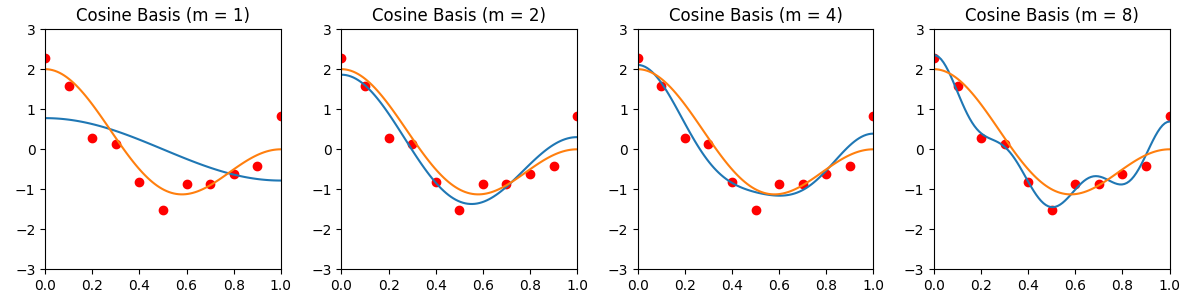
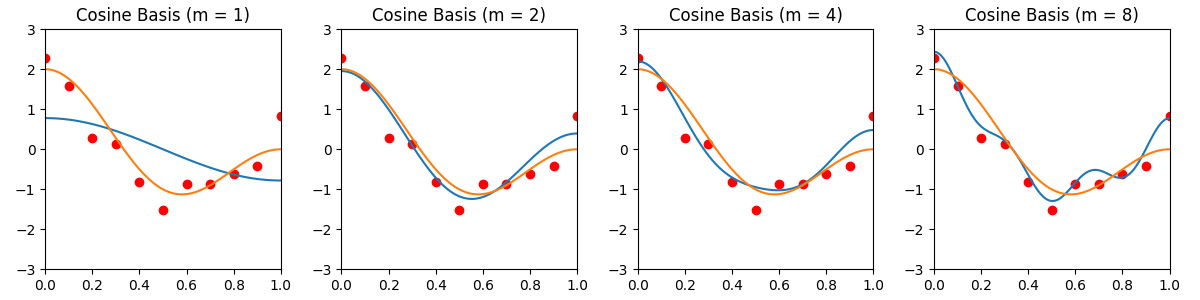
problem 4 is mostly done; need to come back to 2

diff --git a/PSet1/P2/loadFittingDataP2.py b/PSet1/P2/loadFittingDataP2.py
@@ -1,7 +1,12 @@
+import sys
+sys.path.append('..')
+
 import matplotlib.pyplot as plt
 import pylab as pl
 import numpy as np
-import pandas as pd 
+import pandas as pd
+
+import P1.loadFittingDataP1 as P1 
 
 def getData(ifPlotData=True):
     # load the fitting data and (optionally) plot out for examination
@@ -21,6 +26,7 @@ def getData(ifPlotData=True):
     return (X,Y)
 
 def polynomial_basis(X, m):
+    # X is a 1D array
     matrix = np.empty((len(X), m+1))
     for i in range(len(X)):
         for j in range(m+1):
@@ -28,63 +34,59 @@ def polynomial_basis(X, m):
     return matrix
 
 def cosine_basis(X, m):
-    # including \phi_0 = 1
-    matrix = np.empty((len(X), m+1))
+    # X is a 1D array
+    matrix = np.empty((len(X), m))
     for i in range(len(X)):
-        for j in range(m+1):
-            matrix[i][j] = np.cos(X[i] * j * np.pi)
+        for j in range(m):
+            matrix[i][j] = np.cos(X[i] * (j+1) * np.pi)
     return matrix
 
-def beta_closed_form(X, Y):    
-    return (np.linalg.inv(X.T @ X) @ X.T @ Y)
+def eval_poly(X, coeffs):
+    coeffs_1D = coeffs.flatten()
+    X_1D = X.flatten()
+    Y = np.empty(shape=(len(X),))
+
+    for i in range(len(X)):
+        Y[i] = sum([coeffs_1D[n] * (X_1D[i] ** n) for n in range(len(coeffs_1D))])
+    return Y
+
+def eval_cos(X, coeffs):
+    coeffs_1D = coeffs.flatten()
+    X_1D = X.flatten()
+    Y = np.empty(shape=(len(X),))
+
+    for i in range(len(X)):
+        Y[i] = sum([coeffs_1D[j] * (np.cos(X_1D[i] * (j+1) * np.pi)) \
+                            for j in range(len(coeffs_1D))])
+    return Y
+
+def eval_actual(x):
+    return np.cos(np.pi * x) + np.cos(2 * np.pi * x)
+
+def beta_closed_form(X, Y):
+    # X, Y are 2D arrays
+    return (np.linalg.inv(X.T @ X) @ X.T @ Y.reshape(-1, 1))
 
 def sum_sq_err(X, Y, beta):
-    # returns float
-    X.shape = (X.shape[0], 1)
-    Y.shape = (Y.shape[0], 1)
-    sq_err = (Y - X @ beta)**2
-    return np.sum(sq_err)
+    return np.sum((np.reshape(Y, (-1, 1)) \
+        - X @ np.reshape(beta, (-1, 1)))**2)
 
 def SSE_gradient(X, Y, beta):
     # gradient = -2[X]^T[Y] + 2[X]^T[X][\beta]
     # returns 2D array
     return -2 * X.T @ Y + 2 * X.T @ X @ beta
 
-def eval_poly(X, coeffs):
-    coeffs.shape = (len(coeffs),)
-    x_vals = np.array(X)
-    x_vals.shape = (len(x_vals),)
-    y_vals = np.empty(shape=(len(x_vals),))
-
-    for i in range(len(x_vals)):
-        y_vals[i] = sum([coeffs[n] * (x_vals[i] ** n) for n in range(len(coeffs))])
-    return y_vals
-
-def eval_cos(X, coeffs):
-    coeffs.shape = (len(coeffs),)
-    x_vals = np.array(X)
-    x_vals.shape = (len(x_vals),)
-    y_vals = np.empty(shape=(len(x_vals),))
-
-    for i in range(len(x_vals)):
-        y_vals[i] = sum([coeffs[n] * (np.cos(x_vals[i] * n * np.pi)) \
-                            for n in range(len(coeffs))])
-    return y_vals
-
-def eval_actual(x):
-    return np.cos(np.pi * x) + np.cos(2 * np.pi * x)
-
 def part_one(save=True):
     plt.figure(1, figsize=(12, 3))
 
     X, Y = getData(False)
     M = [0,1,3,10]
-    solutions = []
+    solutions = {}
 
     for i, m in enumerate(M):
         X_poly = polynomial_basis(X, m)
         beta = beta_closed_form(X_poly, Y)
-        solutions.append((m, beta))
+        solutions[m] = beta
 
         x_values = np.linspace(0, 1, 100)
         y_values = eval_poly(x_values, beta)
@@ -121,17 +123,16 @@ def part_three():
     pass
 
 def part_four(save=True):
-    # note the cosine basis includes \phi_0 = 1
     plt.figure(4, figsize=(12,3))
 
     X, Y = getData(False)
     M = [1,2,4,8]
-    solutions = []
+    solutions = {}
 
     for i, m in enumerate(M):
         x_cos = cosine_basis(X, m)
         beta = beta_closed_form(x_cos, Y)
-        solutions.append((m, beta))
+        solutions[m] = beta
 
         x_values = np.linspace(0, 1, 100)
         y_values = eval_cos(x_values, beta)

diff --git a/PSet1/P4/lassoData.py b/PSet1/P4/lassoData.py
@@ -1,6 +1,15 @@
+import sys
+sys.path.append('..')
+
 import pdb
 import random
 import pylab as pl
+import numpy as np
+import matplotlib.pyplot as plt
+from sklearn.linear_model import Lasso
+from scipy.sparse import csr_matrix
+
+import P2.loadFittingDataP2 as P2
 
 # X is an array of N data points (one dimensional for now), that is, NX1
 # Y is a Nx1 column vector of data values
@@ -21,3 +30,66 @@ def lassoValData():
 def lassoTestData():
     return getData('lasso_test.txt')
 
+def basis(X):
+    X_1D = X.flatten()
+    matrix = np.empty((len(X), 13))
+    for i in range(len(X)):
+        for j in range(13):
+            if j == 0:
+                matrix[i][j] = X_1D[i]
+            else:
+                matrix[i][j] = np.sin(X[i] * 0.4 * np.pi * j)
+    return matrix
+
+def train(alpha):
+    # returns a 2D array
+    X, Y = lassoTrainData()
+    lasso = Lasso(alpha=alpha)
+    lasso.fit(basis(X), Y)
+    beta = lasso.coef_.flatten()
+    return beta
+
+def validate(trial_alphas):
+    X, Y = lassoValData()
+    X_basis = basis(X)
+    solutions = {}
+
+    for alpha in trial_alphas:
+        beta = train(alpha)
+        solutions[alpha] = (csr_matrix(beta), P2.sum_sq_err(X_basis, Y, beta))
+    return solutions
+
+def tune_alpha():
+    # returns a triple (alpha, trained beta, validation SSE) 
+    # that gives the smallest validation SSE
+    trial_alphas = np.linspace(0.007, 0.02, 1000)
+    solutions = validate(trial_alphas)
+    best = (None, None, np.inf)
+
+    for alpha in solutions:
+        if solutions[alpha][1] < best[2]:
+            best = (alpha, solutions[alpha][0], solutions[alpha][1])
+    return best
+
+def test(beta):
+    X, Y = lassoTestData()
+    return P2.sum_sq_err(basis(X), Y, beta)
+
+def main():
+    trial_alphas = [0.007, 0.01, 0.02, 0.1, 1.0]
+    betas = validate(trial_alphas)
+    for alpha in trial_alphas:
+        print('alpha =', alpha, ':')
+        print(betas[alpha][0])
+        print('Validation SSE =', betas[alpha][1], '\n')
+
+    alpha, beta, val_sse = tune_alpha()
+    print('Optimal params: \nalpha = {alpha} \nbeta = \n{beta} \nValidation ' \
+        'SSE = {val_sse} \n'.format(alpha=alpha, beta=beta, val_sse=val_sse))
+    
+    print('Testing optimal params:')
+    print('Test SSE =', test(beta.toarray()), '\n')
+
+
+if __name__ == '__main__':
+    main()
